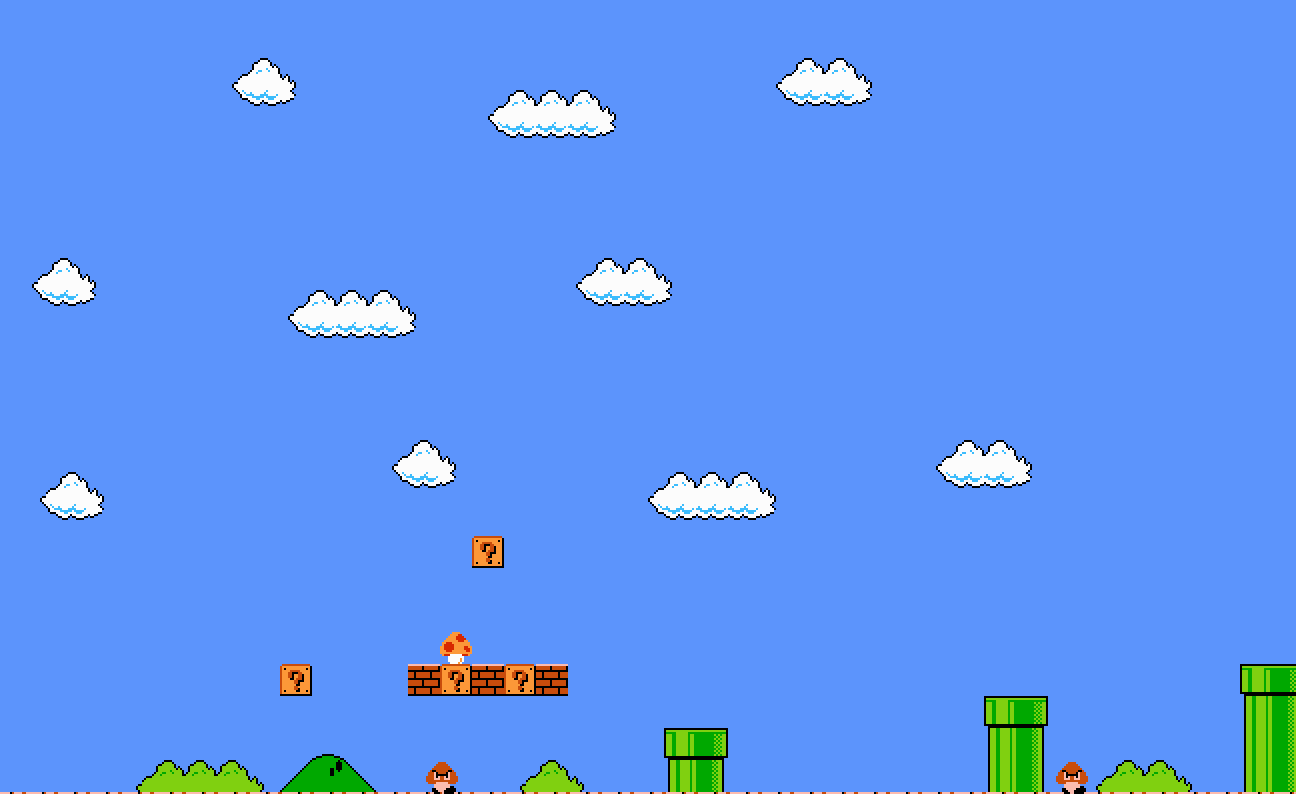
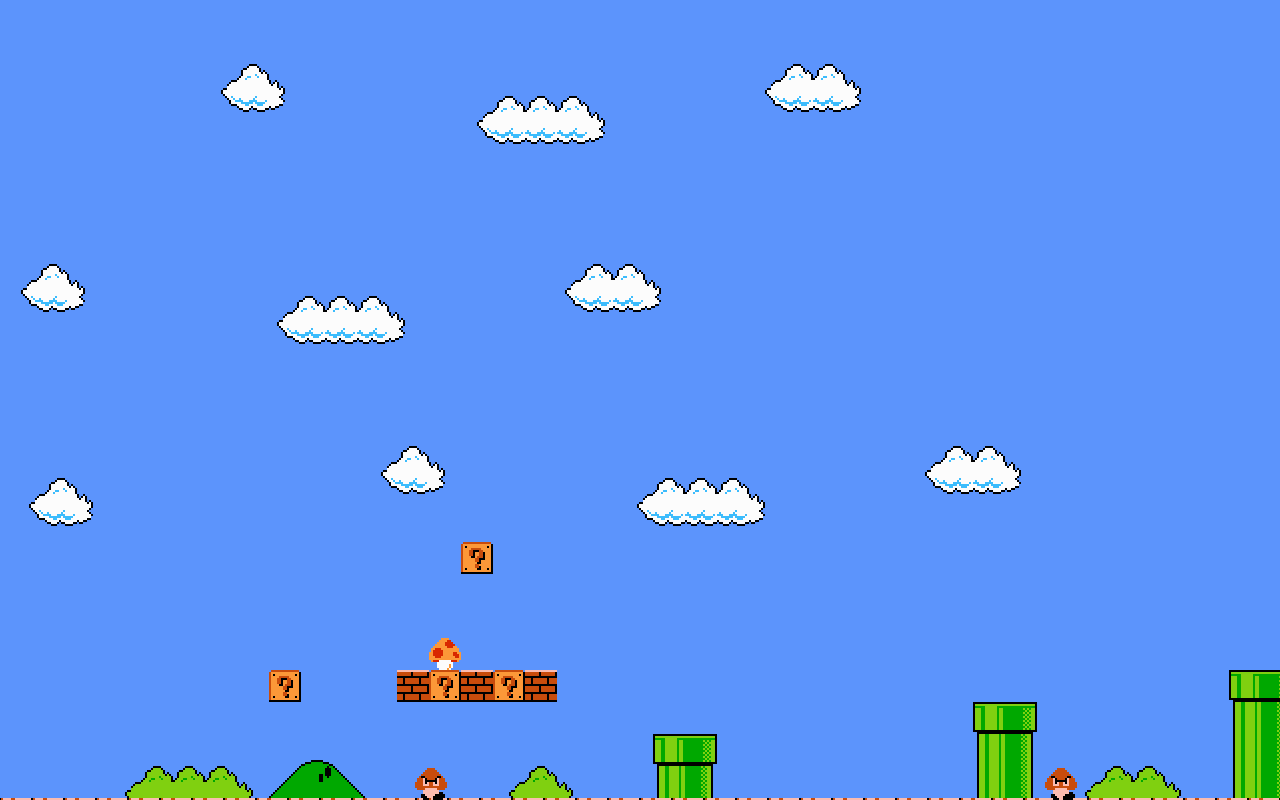
added tilemap drawing system

diff --git a/src/map.cpp b/src/map.cpp
@@ -1,0 +1,54 @@
+#include <iostream>
+#include <fstream>
+#include <sstream>
+#include "map.h"
+
+Tile::Tile()
+{
+  flags = 0x00;
+}
+
+Tile::Tile(int x, int y, int f)
+{
+  int img_no = f & 0xff;
+  hitbox = Rect(x, y, TILEW, TILEH);
+  img = Rect(img_no*TILEW, 0, TILEW, TILEH);
+  flags = f >> 8;
+  tno = img_no;
+}
+
+int Tile::x() { return hitbox.x(); }
+int Tile::y() { return hitbox.y(); }
+
+Map::Map(std::string data_path, Image b, Image t)
+{
+  bg = b;
+  tileset = t;
+  std::ifstream file(data_path);
+  std::string line;
+  int i = 0, j = 0;
+
+  while (std::getline(file, line)) {
+    std::stringstream stream(line);
+    std::vector<Tile> tmp;
+    int value;
+
+    while (stream >> std::hex >> value) {
+      tmp.push_back(Tile(j*TILEW, i*TILEH, value));
+      j++;
+    }
+    tiles.push_back(tmp);
+    i++;
+    j = 0;
+  }
+}
+
+void Map::draw(Window w, int cx, int cy)
+{
+  bg.drawClip(w, Rect(0,0,1280,800), 0-cx, 0-cy);
+  for (int i = 0; i < tiles.size(); i ++) {
+    for (int j = 0; j < tiles[i].size(); j ++) {
+      tileset.drawClip(w, tiles[i][j].img, tiles[i][j].x()-cx, tiles[i][j].y()-cy);
+    }
+  }
+}

diff --git a/src/main.cpp b/src/main.cpp
@@ -2,15 +2,19 @@
 
 #include "draw.h"
 #include "player.h"
-
+#include "map.h"
 int main(int argc, char **argv)
 {
   Window w;
   Image i;
   Image bg;
-
-  if (w.init() && i.init(w, "mario.png") && bg.init(w, "bg.png")) {
+  Image t;
+  if (w.init() &&
+      i.init(w, "mario.png") &&
+      bg.init(w, "bg.png") &&
+      t.init(w, "tiles.png")) {
     Camera camera;
+    Map map("map.txt", bg, t);
 
     Player p(i);
 
@@ -29,7 +33,9 @@ int main(int argc, char **argv)
       camera.keepinbound();
 
       SDL_RenderClear(w.renderer);
-      bg.drawClip(w, Rect(0,0,1296,794), 0-camera.x(), 0-camera.y());
+
+      map.draw(w, camera.x(), camera.y());
+
       p.draw(w, camera.x(), camera.y());
       SDL_RenderPresent(w.renderer);
     }

diff --git a/include/map.h b/include/map.h
@@ -1,0 +1,40 @@
+#ifndef MAP_H_
+#define MAP_H_
+
+#include <string>
+#include <vector>
+
+#include "draw.h"
+#include "rect.h"
+
+const int TILEW = 32;
+const int TILEH = 32;
+
+class Tile
+{
+private:
+  Rect hitbox;
+  int flags;
+public:
+  Rect img;
+  int tno;
+
+  Tile();
+  Tile(int x, int y, int f);
+
+  int x();
+  int y();
+};
+
+class Map
+{
+private:
+  Image bg;
+  Image tileset;
+  std::vector<std::vector<Tile>> tiles;
+public:
+  Map(std::string path, Image b, Image t);
+  void draw(Window w, int cx, int cy);
+};
+
+#endif

diff --git a/include/draw.h b/include/draw.h
@@ -11,8 +11,8 @@
 const int SCREEN_WIDTH  = 512;
 const int SCREEN_HEIGHT = 448;
 
-const int LEVEL_WIDTH  = 1296;
-const int LEVEL_HEIGHT = 794;
+const int LEVEL_WIDTH  = 1280;
+const int LEVEL_HEIGHT = 800;
 
 const std::string TITLE = "hori";
 
